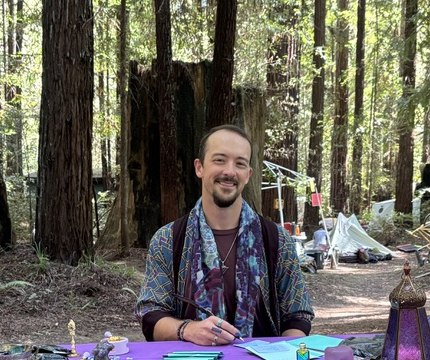
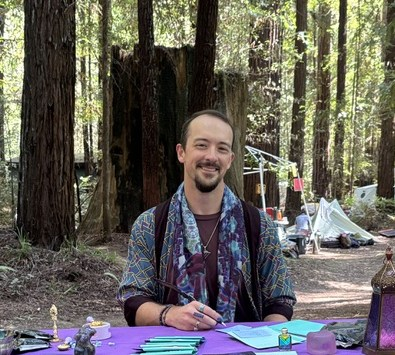
Tighter contact photo crop; replace homepage newsletter embed with link

diff --git a/index.html b/index.html
@@ -770,10 +770,7 @@ A sterling hypnosis to remold the soul.</div>
       </div>
     </div>
     <button class="view-all-btn" onclick="showPoems()">more poems &nbsp;›</button>
-    <div class="newsletter-section">
-      <div class="newsletter-title">Join my newsletter</div>
-      <script async src="https://subscribe-forms.beehiiv.com/v3/loader.js" data-beehiiv-form="61c5564a-15b8-4ab2-a1b6-6ebc87820cd5"></script>
-    </div>
+    <button class="view-all-btn" onclick="showNewsletter()" style="margin-top:.8rem;">Join my Newsletter &nbsp;›</button>
   </div>
 </section>
 
